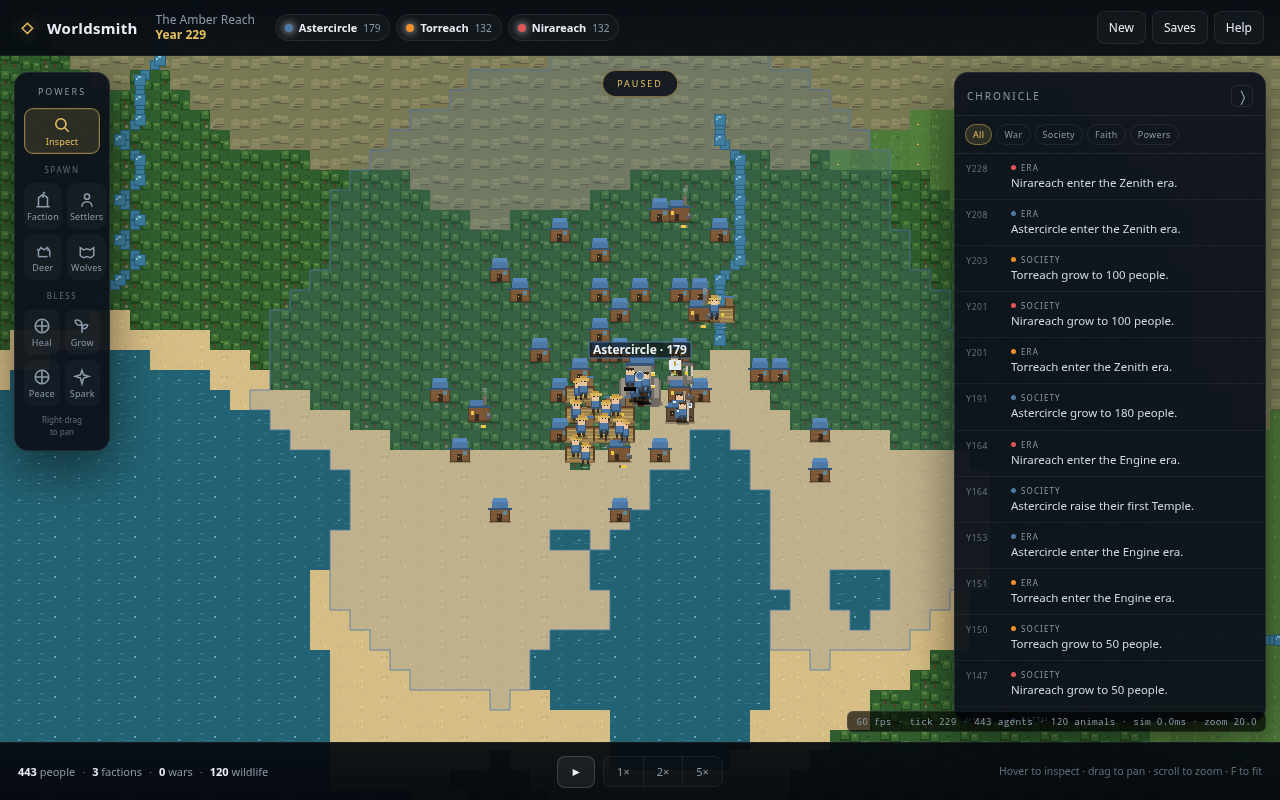
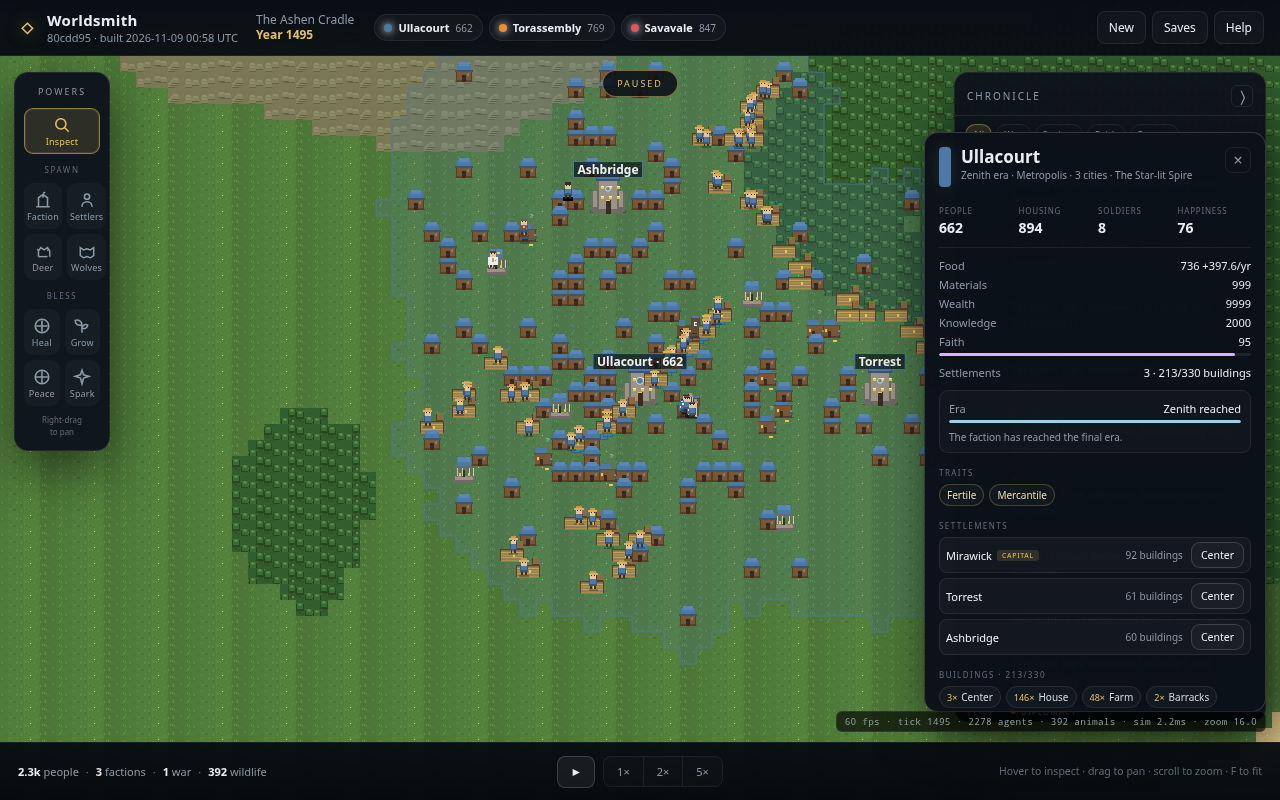
docs: update plan, readme, agent guide and screenshots

diff --git a/PLAN.md b/PLAN.md
@@ -3,8 +3,8 @@
 > **Living document.** Update this file instead of replacing it when scope, status or
 > priorities change. Last updated: **2026-11-09**.
 >
-> **Code baseline:** `80cdd95` (local `main`). **Remote baseline:** `63a236a`
-> (`origin/main`). Local `main` has one unpushed code fix on top of remote.
+> **Code baseline:** `850f5ab` (`main` == `origin/main`). **Iteration branch:**
+> `feat/navies-settlements-hardening` (PR pending; no merge or deploy).
 
 ## 1. Product goal
 
@@ -26,7 +26,7 @@ In one line: **WorldBox-style living world, focused on societies rather than dis
 | Time | Real-time; pause; 1× / 2× / 5×; one tick = one game year |
 | Deep systems | Civs & settlements · individual agents/families/jobs · food/resources/economy · war/diplomacy · eras/culture/religion |
 | Terrain | Procedural terrain, biomes, rivers, light wildlife |
-| War | Agent armies that march, skirmish and siege |
+| War | Agent armies that march, sail, skirmish and siege; AI wars gated by land/coastal reachability |
 | MVP powers | Spawn faction/settlers/deer/wolves; Heal/Fertility/Peace/Insight |
 | Start | Pre-seeded with three factions, with optional empty wilderness |
 | Presentation | Cosmetic day/night tint; English UI; desktop-first mouse/keyboard |
@@ -39,6 +39,9 @@ In one line: **WorldBox-style living world, focused on societies rather than dis
   fertility, rivers, spawn sites; deterministic per seed.
 - **Factions** — generated names/colours/traits; faction AI builds housing, farms,
   workshops, temples and barracks; territory and building caps by settlement tier.
+- **Cities & expansion** — Metropolis tier, population-scaled farm/workshop/temple
+  targets, settlement-aware civilian jobs and construction; up to four AI-founded
+  settlements per faction; losing one town centre no longer destroys the faction.
 - **People** — every villager is an agent with needs, health, hunger, happiness, faith,
   a home, a job, a partner and children; aging, births, marriages and death.
 - **Economy** — food, materials, wealth and knowledge; era multipliers; famine and
@@ -46,7 +49,8 @@ In one line: **WorldBox-style living world, focused on societies rather than dis
 - **Progress & culture** — Hearth/Craft/Engine/Zenith eras, culture traits, patron
   religions and spread between neighbours.
 - **Diplomacy & war** — relations drift and incidents, war declarations, soldier armies,
-  A* movement, skirmishes, sieges, building destruction, peace and faction collapse.
+  land A* movement, cross-water ferry crossings, skirmishes, sieges, building
+  destruction, peace and faction collapse. Unreachable factions cannot declare war.
 - **Wildlife** — deer and wolf populations with grazing, hunting and reproduction.
 - **Powers** — spawning tools and four blessings with radius brush, cooldowns, effects,
   toasts and chronicle entries.
@@ -55,7 +59,7 @@ In one line: **WorldBox-style living world, focused on societies rather than dis
 - **Persistence** — deterministic save/load including RNG state and soldier routes;
   autosave; manual slots; persistent/temporary storage status feedback.
 - **Rendering & performance** — procedural sprite atlas, chunk caching, overview
-  texture, territory overlay, cosmetic day/night, capital/label rendering.
+  texture, territory overlay, cosmetic day/night, capital and settlement labels, boats.
 - **Ops** — Cloudflare Workers static-assets config, deploy script, commit/build
   metadata in the game header, dev server on `0.0.0.0`.
 
@@ -70,38 +74,41 @@ In one line: **WorldBox-style living world, focused on societies rather than dis
 | 5 | Integrate remote fixes: workshop staffing, construction labour, soldier paths, storage status, saved speed, header/deploy | ✅ Done | `63a236a`; 44 upstream tests |
 | 6 | Review-found war retry throttle | ✅ Done | `80cdd95`; 45 tests; 1024 pacing test 4.3 s → 1.1 s |
 | 7 | AGENTS.md & PLAN.md tracking | ✅ Done | This document |
+| 8 | Naval transport, Metropolis + multi-settlement growth, saves refresh, build-metadata safety, docs | ✅ Done | `feat/navies-settlements-hardening`; 78 tests; browser QA |
 
 ## 5. Verification snapshot
 
-As of **2026-11-09** (local code base `80cdd95`):
+As of **2026-11-09** (branch `feat/navies-settlements-hardening`, based on `850f5ab`):
 
 - `npm install` completed; `@types/node` and `wrangler` present.
 - `npm run typecheck` — pass.
-- `npm test` — **45/45 pass** across 10 test files.
-- `npm run build` — pass; production `dist/` generated.
-- Browser checks — header commit/build label, save at 5× → restore 5×, persistent
-  storage notice, save slots, resume, no console errors.
-- Dev server — `http://127.0.0.1:5173/` and network IP; responsive.
-- Deployment config — `wrangler deploy --dry-run` reads all four `dist/` assets; no
-  production deploy executed.
-- Performance — ~57–60 fps in headless Chromium at 1024² with several hundred agents;
-  failed-route war retries are throttled per target per tick.
+- `npm test` — **78/78 pass** across 15 test files (~12 s).
+- `npm run build` — pass; production `dist/` generated (39 modules, ~137 kB JS).
+- Browser checks at 1280×800 — creation, 512²/1024² growth runs, Metropolis and
+  three-city faction panel, settlement labels, boat rendering, save slot → load,
+  live autosave row refresh while the Saves menu is open, old pre-change Slot I save
+  loads, no console errors.
+- Performance — 1024² at year 1401: **2,522 people / 9 cities / 626 buildings**, solid
+  **60 fps at 5×** zoomed out, **~1.6 ms/tick** simulation cost; 1,400 ticks in 3.6 s.
+  A 512² run reached 2,298 people across 9 cities by year 901.
+- Dev server — `http://127.0.0.1:5173/`; responsive; no replacement server started.
+- Deployment — not performed; Cloudflare remains unauthenticated.
+- CI — intentionally **not added** (explicit user request); all verification is local.
 
 ## 6. Short-term goals (next)
 
-- [ ] **Decide publishing:** push local `80cdd95` and deploy to Cloudflare, or keep the
-      review fix local. This is a user decision; no push/deploy has been done.
-- [ ] **Cross-water wars:** prevent declarations when capitals have no land route, or
-      introduce a deliberate naval/coastal transport mechanic. Today armies can stall
-      until peace; wars are cheap now but pointless.
-- [ ] **Saves menu freshness:** refresh the open menu when an autosave lands (currently
-      the autosave row can stay stale until the menu is reopened or an action occurs).
-- [ ] **CI:** add a GitHub Actions workflow running typecheck, tests and build.
-- [ ] **Build metadata test safety:** define `__COMMIT_HASH__`/`__BUILD_DATE__` for
-      Vitest or add a runtime fallback so the HUD can be imported in tests without mocks.
-- [ ] **Keep docs current:** refresh README screenshots after visible UI changes.
-- [ ] **Coverage:** add browser-level smoke tests for the creation → play → save → load
-      flow if the hosting environment supports automation.
+- [x] **Publishing:** iteration delivered on a feature branch with a PR; merge and
+      Cloudflare deploy remain explicit user decisions.
+- [x] **Cross-water wars:** armies auto-ferry across water and AI declarations are
+      gated by land/coastal reachability; cross-water wars get a longer duration.
+- [x] **Saves menu freshness:** an open Saves menu refreshes when an autosave lands.
+- [ ] **CI:** explicitly deferred by user request — do not add a workflow unless asked.
+- [x] **Build metadata test safety:** `__COMMIT_HASH__`/`__BUILD_DATE__` are defined
+      for Vitest; header rendering is covered by `tests/build-info.test.ts`.
+- [x] **Keep docs current:** README screenshots, PLAN status, AGENTS constraints.
+- [ ] **Automated browser smoke tests:** manual browser QA performed; automation
+      (e.g. Playwright) still deferred.
+- [ ] **Deploy after approval:** needs Cloudflare credentials and explicit permission.
 
 ## 7. Long-term goals
 
@@ -114,7 +121,7 @@ As of **2026-11-09** (local code base `80cdd95`):
 
 ### Gameplay depth
 
-- Naval transport/coastal expansion so cross-water wars can actually be fought.
+- Coastal expansion beyond armies: civilian sea migration and overseas settlements.
 - Alliances, trade routes, coalitions and richer peace terms.
 - Deeper technology trees, wonders, more culture/religion events.
 - Balance and pacing work across all three world sizes; more meaningful late-game.
@@ -131,10 +138,11 @@ As of **2026-11-09** (local code base `80cdd95`):
 
 | Issue | Impact | Next step |
 |---|---|---|
-| Cross-water wars can be declared but armies cannot arrive | Wars end by duration; wasted simulation cycles | Reachability gate or navies |
-| Open Saves menu does not refresh autosave row | Stale display while modal stays open | Refresh on autosave or poll |
-| Build metadata constants are Vite-only | Importing HUD in Vitest without mocks would throw | Define in Vitest or add fallback |
-| Production deployment not performed | Cloudflare config only dry-run validated | Needs credentials + explicit approval |
+| No civilian sea migration or overseas settlements | New cities must be on the same landmass; navies are military-only | Future coastal expansion/colony mechanic |
+| Settlement founding is AI-only | Players cannot directly plant a city; factions expand on their own | Consider a "found settlement" power if requested |
+| Agent caps limit total population (1,200/2,500/4,000) | Very large worlds can hit the cap before every city fills | Profile and raise caps only if the target hardware allows |
+| Reachability/naval plans are derived, not serialized | Terrain-shape changes must call `refreshReachability()` | Keep future sculpting behind that hook |
+| Production deployment not performed | Cloudflare config validated locally only | Needs credentials + explicit approval |
 | Temporary IndexedDB fallback is session-only | Saves lost on reload/close | UI warns; expected for blocked storage |
 | Dev server binds `0.0.0.0` | Exposed to the container network | Intentional for access; restrict with `--host 127.0.0.1` if needed |
 | `@types/node` must be installed after pulling | Typecheck fails on stale `node_modules` | Documented; run `npm install` |
@@ -153,6 +161,18 @@ As of **2026-11-09** (local code base `80cdd95`):
   header build metadata, network dev binding, Cloudflare deploy config.
 - **2026-11-09 — review fix:** throttled failed soldier route searches per target per
   tick after finding a 1024² war-cost regression; no gameplay rule change.
+- **2026-11-09 — iteration scope:** naval transport + city growth + hardening on a
+  feature branch with a PR; **no CI** and no Playwright/review extras (explicit request).
+- **2026-11-09 — naval design:** auto-ferry armies (no ship control/building), derived
+  4-connected land/water regions, diplomacy gated by reachability, 105-tick cross-water
+  wars, procedural boat rendering; civilian sea migration deferred.
+- **2026-11-09 — city growth:** Metropolis tier (180 pop / radius 14 / 110 buildings),
+  population-scaled farm/workshop/temple targets, up to four AI settlements, local
+  settlement jobs, capital loss recentres instead of eliminating.
+- **2026-11-09 — saves:** `toSave` canonicalises the derived ownership map so load
+  reproduces exactly; reachability and naval caches are derived and never serialized.
+- **2026-11-09 — no CI:** explicitly excluded from this iteration; verification is
+  local commands plus browser QA.
 
 ## 10. How progress is tracked
 

diff --git a/README.md b/README.md
@@ -1,9 +1,9 @@
 # Worldsmith
 
 A browser-based god sandbox. Shape a world, seed its peoples, then watch factions grow
-from six founders into towns — farming, worshipping, quarrelling, starving, signing
-peace and going to war. You do not win. You intervene, or you don't, and the chronicle
-remembers.
+from six founders into towns and cities — farming, worshipping, quarrelling, starving,
+signing peace, sailing to war and founding new settlements. You do not win. You
+intervene, or you don't, and the chronicle remembers.
 
 Built with **Vite + strict TypeScript + Canvas 2D**, no runtime dependencies, and no
 external art assets — every tile, unit, building and icon is generated procedurally in
@@ -39,22 +39,26 @@ and whether to begin with three factions plus wildlife or an empty wilderness.
   rivers carved downhill across the land. Same seed produces the same world.
 - **Factions** — generated names, banner colours and two traits (militarist, fertile,
   industrious, zealous, scholarly, mercantile, stoic). Each starts with a town centre,
-  houses, farms and six founders.
+  houses, farms and six founders; prosperous factions found new settlements.
 - **People, not numbers** — every villager is an agent with a home, job, age, health,
   hunger, happiness, faith and family. Couples marry, raise children, grow old and die.
   Children become workers; orphaned children stay with the faction.
 - **Economy** — food, materials, wealth and knowledge. Farms depend on soil fertility,
   workshops make materials and wealth, temples make knowledge and faith, houses make
   room for growth. Famine is possible when harvests fall behind population.
-- **Settlement growth** — camps grow into villages, towns and cities. Building caps and
-  territory radius expand with population.
+- **Settlement growth** — camps grow into villages, towns, cities and finally a
+  Metropolis. Building caps and territory radius expand with population, and a full
+  city can found another settlement (up to four per faction). Losing one town centre
+  no longer destroys a multi-city faction.
 - **Eras** — factions climb from the Hearth through Craft and Engine to the Zenith era,
   unlocking new buildings and improving their soldiers.
 - **Culture and religion** — traits bias births, production, war and faith; each faction
   has a patron belief that can spread to neighbours under the right conditions.
 - **Diplomacy and war** — relations drift with incidents, religion and trade-mindedness.
-  Armies recruit from the people, march to enemy buildings, skirmish, siege and raze.
-  Wars end from exhaustion, duration, or divine intervention. A capital can fall.
+  Armies recruit from the people, march overland or sail across water, skirmish, siege
+  and raze. Unreachable factions will not declare war; cross-water campaigns last longer.
+  Wars end from exhaustion, duration, or divine intervention. A capital can fall — and
+  a faction with other cities fights on.
 - **Light wildlife** — deer wander and breed; wolves hunt deer. Populations are capped.
 - **A chronicle** — settlements, eras, wars, battles, peace, famine, conversions and
   divine acts are recorded. Entries with a location can be clicked to jump there.
@@ -107,9 +111,11 @@ lost when the page is reloaded or closed.
 src/
   config.ts            all tuning constants: caps, rates, buildings, eras, traits
   core/                seeded PRNG (mulberry32), value noise/fBm, helpers
-  world/               world model, procedural generation, ownership/territory
+  world/               world model, procedural generation, ownership/territory,
+                       land/water connectivity regions
   sim/                 Game orchestrator + agents, economy, war, diplomacy, progress,
-                       environment, powers, pathfinding, save snapshots
+                       settlements, naval crossings, environment, powers, pathfinding,
+                       save snapshots
   render/              procedural sprite atlas, camera, chunked Canvas 2D renderer
   ui/                  creation screen, HUD, chronicle, civ panel, saves, help
   persist/             IndexedDB storage wrapper
@@ -122,15 +128,16 @@ src/
   purely cosmetic tint on a 120-second cycle.
 - **Scale:** the simulation is designed to keep running while zoomed out. Population
   caps are 1,200 / 2,500 / 4,000 agents for 256² / 512² / 1,024². Wildlife caps are
-  150 / 300 / 500.
+  150 / 300 / 500. A mature 1,024² world reached 2,522 people across 9 cities (626
+  buildings) by year 1401 in verification.
 - **Save format:** versioned `GameSave` object; the codec is covered by a deterministic
-  save → load → 120-tick continuation test.
+  save → load → 120-tick continuation test. Land/water connectivity and naval search
+  plans are derived on load, never serialized; territory is canonicalised before saving.
 - **Measured in this verification environment** (headless Chromium, software renderer,
-  1280×800): ~60 fps at 256² and 1,024² while paused *and* while running at 5× with
-  ~500–530 agents; simulation cost ~1–2 ms/tick at 1,024². Actual frame rate depends on
-  hardware, but the renderer is layered for exactly this: the overview texture and
-  territory overlay carry zoomed-out views, while chunk canvases only cover what is on
-  screen.
+  1280×800): ~60 fps at 1,024² while running at 5× with ~2,500 agents zoomed out;
+  simulation cost ~1.6 ms/tick. Actual frame rate depends on hardware, but the renderer
+  is layered for exactly this: the overview texture and territory overlay carry
+  zoomed-out views, while chunk canvases only cover what is on screen.
 
 ## Scripts
 
@@ -166,6 +173,11 @@ monsters, minimap, world file import/export and seed sharing, statistical graphs
 sound, mobile/touch controls, and screenshot export. All tuning lives in
 `src/config.ts`, so balancing and new powers can be added without touching the renderer
 or UI structure.
+
+Armies can sail, but civilians do not migrate by sea and new settlements must share
+their parent faction's landmass. Settlement founding is automatic AI expansion; there
+is no player "found city" power. Global agent caps (1,200 / 2,500 / 4,000) remain the
+authoritative population limit per world size.
 
 ## License
 

diff --git a/AGENTS.md b/AGENTS.md
@@ -41,15 +41,19 @@ the console. For simulation changes, also check save → load → continuation.
 
 - `src/config.ts` — all tuning: rates, caps, buildings, eras, traits, save version.
 - `src/core/` — seeded RNG and noise.
-- `src/world/` — world model, deterministic world generation, territory/ownership.
+- `src/world/` — world model, deterministic world generation, territory/ownership,
+  derived land/water connectivity regions (`regions.ts`).
 - `src/sim/game.ts` — `Game` orchestrator, tick order, snapshots, powers entry points.
 - `src/sim/agents.ts`, `economy.ts`, `war.ts`, `diplomacy.ts`, `progress.ts`,
-  `environment.ts`, `powers.ts`, `pathfind.ts` — simulation systems.
+  `settlements.ts`, `naval.ts`, `environment.ts`, `powers.ts`, `pathfind.ts` —
+  simulation systems.
 - `src/render/` — procedural sprite atlas, camera, chunked Canvas renderer.
-- `src/ui/` — creation screen, HUD/chronicle/civ panel, saves, help, power metadata.
+- `src/ui/` — creation screen, HUD/chronicle/civ panel, saves, help, power metadata,
+  build-info label.
 - `src/persist/` — IndexedDB storage with a temporary in-memory fallback.
 - `src/main.ts` — app wiring, input, fixed-step loop, autosave, debug API.
-- `tests/` — worldgen, simulation, war/pathfinding, powers, storage, save round-trip.
+- `tests/` — worldgen, simulation, war/pathfinding, naval, settlements/growth, powers,
+  storage, save round-trip.
 
 ## Invariants
 
@@ -61,31 +65,41 @@ the console. For simulation changes, also check save → load → continuation.
   reset speed inside `installGame`.
 - **Performance:** keep hot loops allocation-light; respect agent/wildlife caps and A*
   node budgets. Failed soldier route searches share a per-target retry throttle — do
-  not multiply A* searches by soldier count per tick.
+  not multiply A* searches by soldier count per tick. Naval crossing plans are cached per
+  target/region; keep them derived, not serialized.
+- **Derived state:** land/water reachability and naval plans are recomputed on load;
+  terrain-shape changes must call `refreshReachability()`. `toSave()` canonicalises the
+  derived ownership map so a save/load reproduces the exact territory.
 - **Rendering:** the HUD overlays an animating canvas. Avoid expensive `backdrop-filter`
   blurs on animated panels; chunk-cache terrain and reuse the 1 px/tile overview texture.
 - **Assets:** no external art, fonts, audio or network access at runtime.
 - **Build metadata:** `__COMMIT_HASH__` / `__BUILD_DATE__` are injected by
-  `vite.config.ts`. Tests that import the HUD must mock it or arrange for these
-  constants to be defined.
+  `vite.config.ts` and defined for Vitest in `vitest.config.ts`; the HUD can be imported
+  in tests without mocking them.
 
 ## Verification
 
-- `npm test` currently covers 45 checks. Keep it green.
+- `npm test` currently covers **78 checks** across 15 files. Keep it green.
 - Use `?debug=1` and the `window.__worldsmith` debug API
   (`startWorld`, `cast`, `save`, `load`, `speed`, `pause`, `stats`, `renderer`,
   `camera`) for browser verification.
 - Check gameplay flows, not only rendering: creation, empty-world start, powers, save
-  slots/autosave, resume, chronicle jump, and a war if you touched combat.
+  slots/autosave, resume, chronicle jump, a war if you touched combat, growth to a
+  Metropolis/multiple settlements, and a cross-water war if you touched navies.
 - The dev server is app-only at `:5173`; do not modify or replace the DSH Web GUI on
-  `:3080`.
+  `:3080`. CI is intentionally not configured; run the local commands above.
 
 ## Current known constraints
 
-- No navies: wars can still be declared between landmasses without a land route; armies
-  stall, and the war ends by duration. Reachability gate/naval transport is a follow-up.
-- The Saves menu does not live-refresh its autosave row while it stays open.
-- Deployment has only been validated with `wrangler deploy --dry-run`; no production
-  deployment has been performed.
+- Armies can sail between landmasses; civilians cannot migrate by sea and new
+  settlements must be founded on the same landmass.
+- Settlement founding is automatic AI expansion (up to four per faction); there is no
+  player "found city" power.
+- Global agent caps (1,200 / 2,500 / 4,000 by world size) remain the authoritative
+  population limit; very large worlds can hit the cap.
+- Land/water reachability and naval plans are derived from terrain; call
+  `Game.refreshReachability()` after any terrain-shape edit.
+- Deployment has only been validated locally; no production deployment has been
+  performed.
 - Browser storage may be unavailable; saves then fall back to session memory and the UI
   warns that they will be lost.
